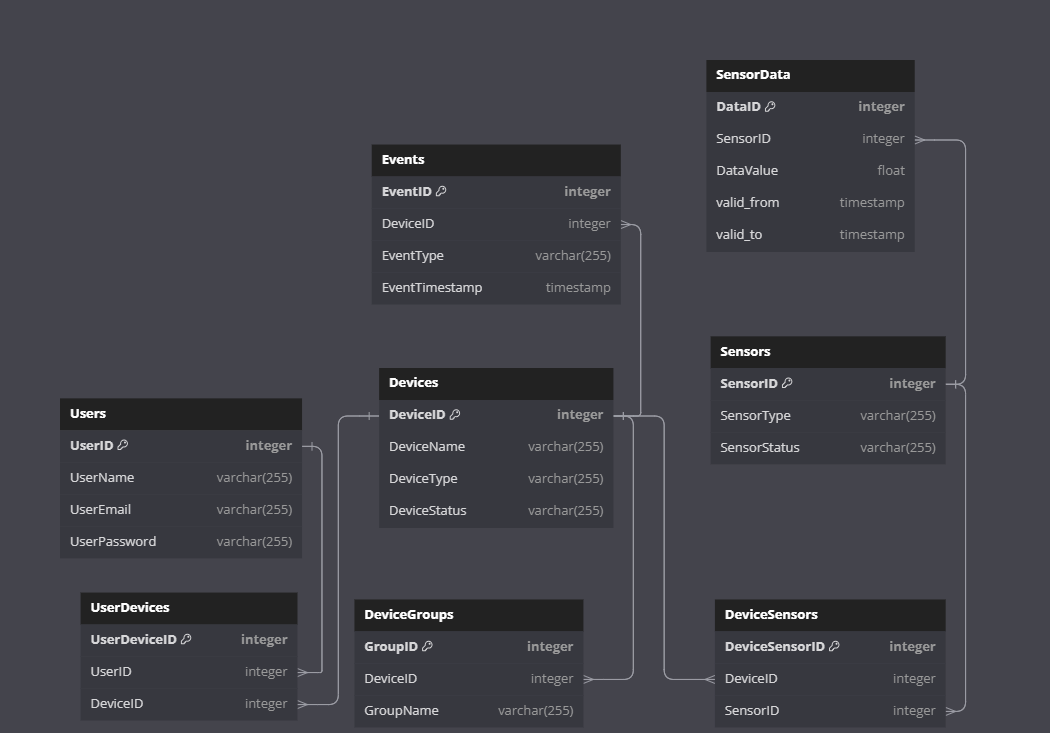
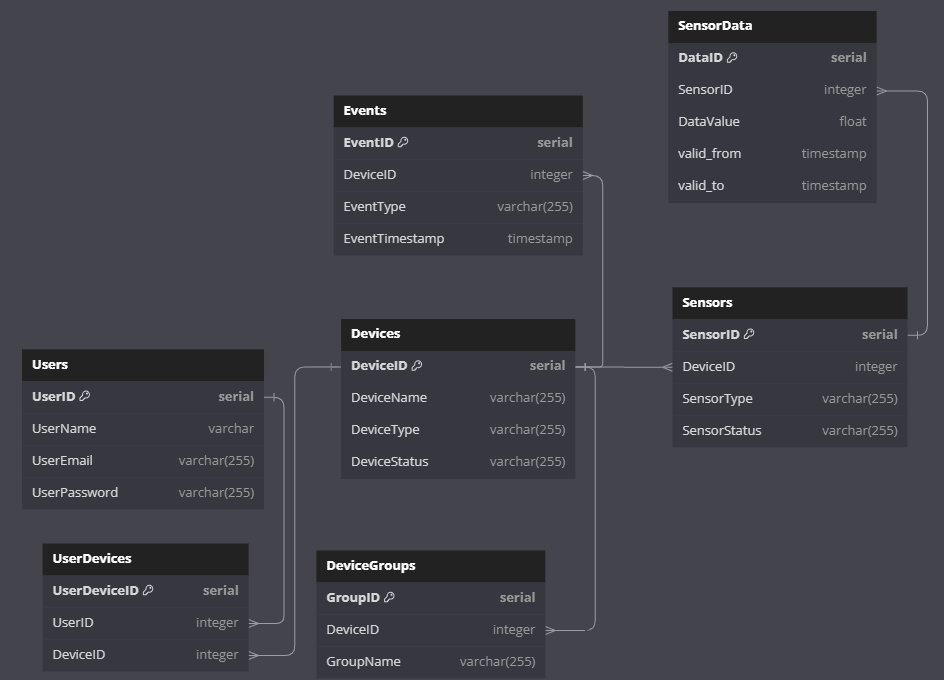
Removed extra table DeviceSensors

diff --git a/Project/insertion/Sensors.py b/Project/insertion/Sensors.py
@@ -1,0 +1,47 @@
+import csv
+import psycopg2
+
+# Connect to your postgres DB
+conn = psycopg2.connect(
+    dbname="pg_db",
+    user="postgres",
+    password="postgres",
+    host="localhost",
+    port="5432"
+)
+
+# Open a cursor to perform database operations
+cur = conn.cursor()
+
+# Read the sensor types and their statuses from the Sensors.csv file into a dictionary
+sensor_statuses = {}
+with open('./insertion/Sensors.csv', 'r') as f:
+    reader = csv.reader(f)
+    next(reader)  # Skip the header row
+    for row in reader:
+        sensor_type, sensor_status = row
+        sensor_statuses[sensor_type] = sensor_status
+
+# Read the Devices and their Sensors from the DeviceSensors.csv file
+with open('./insertion/DeviceSensors.csv', 'r') as f:
+    reader = csv.reader(f)
+    next(reader)  # Skip the header row
+    for row in reader:
+        device_name, sensor_type = row
+
+        # Get the DeviceID for the current device
+        cur.execute("SELECT DeviceID FROM project.Devices WHERE DeviceName = %s", (device_name,))
+        device_id = cur.fetchone()[0]
+
+        # Get the SensorStatus for the current sensor
+        sensor_status = sensor_statuses[sensor_type]
+
+        # Insert the sensor into the Sensors table
+        cur.execute("INSERT INTO project.Sensors (SensorType, SensorStatus, DeviceID) VALUES (%s, %s, %s)", (sensor_type, sensor_status, device_id))
+
+# Commit the changes
+conn.commit()
+
+# Close the connection
+cur.close()
+conn.close()
